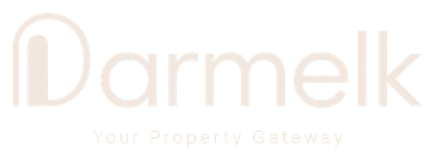
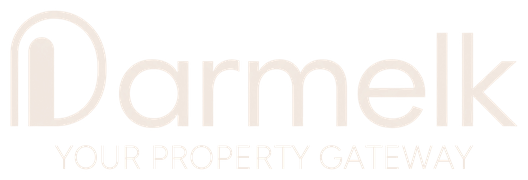
Widen the Darmelk slogan to 83% of the wordmark.
Keep the Darmelk letterforms unchanged and set “YOUR PROPERTY GATEWAY” centered beneath at about 82.6% of the wordmark width so it stays readable in compact chrome.

diff --git a/src/components/brand-mark.tsx b/src/components/brand-mark.tsx
@@ -14,11 +14,11 @@ export function BrandMark({
       <img
         src={inverted ? "/brand/darmelk-lockup-light.png" : "/brand/darmelk-lockup.png"}
         alt="Darmelk — Your Property Gateway"
-        width={436}
-        height={160}
+        width={528}
+        height={180}
         className={cn(
-          "h-9 w-auto object-contain object-left sm:h-10",
-          compact && "h-8 sm:h-9",
+          "h-10 w-auto object-contain object-left sm:h-11",
+          compact && "h-9 sm:h-10",
         )}
       />
     </span>
